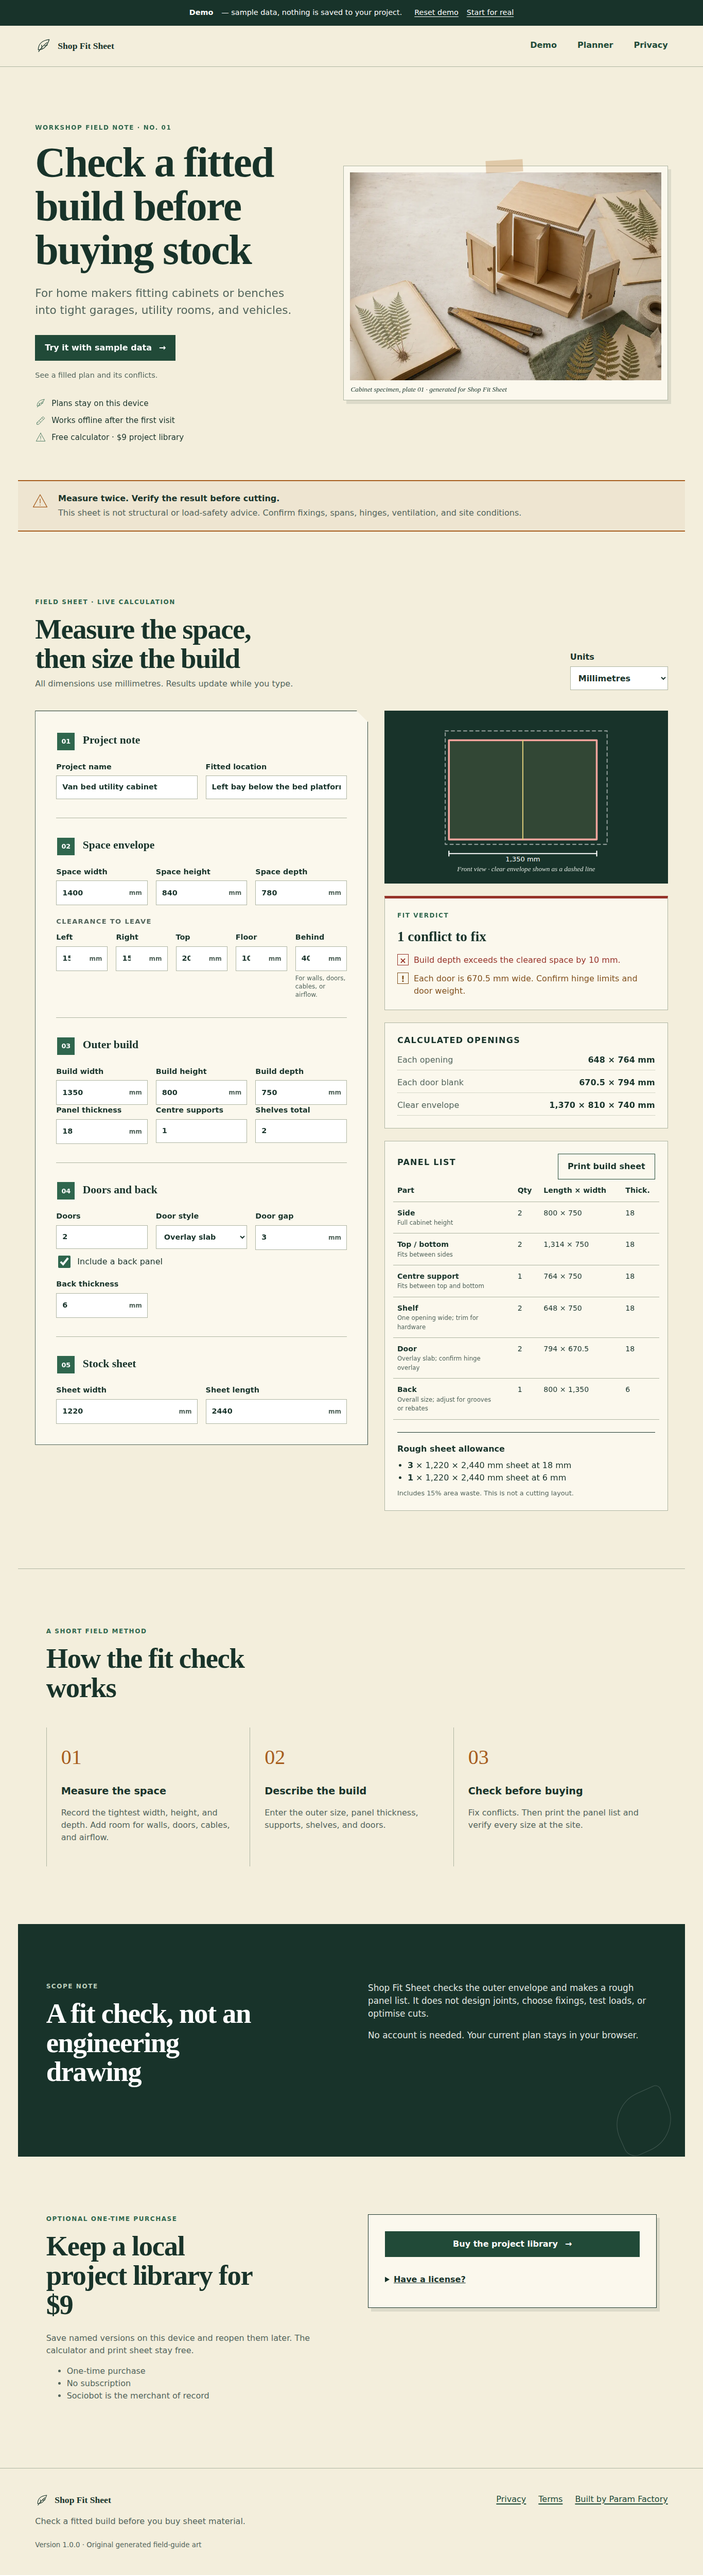
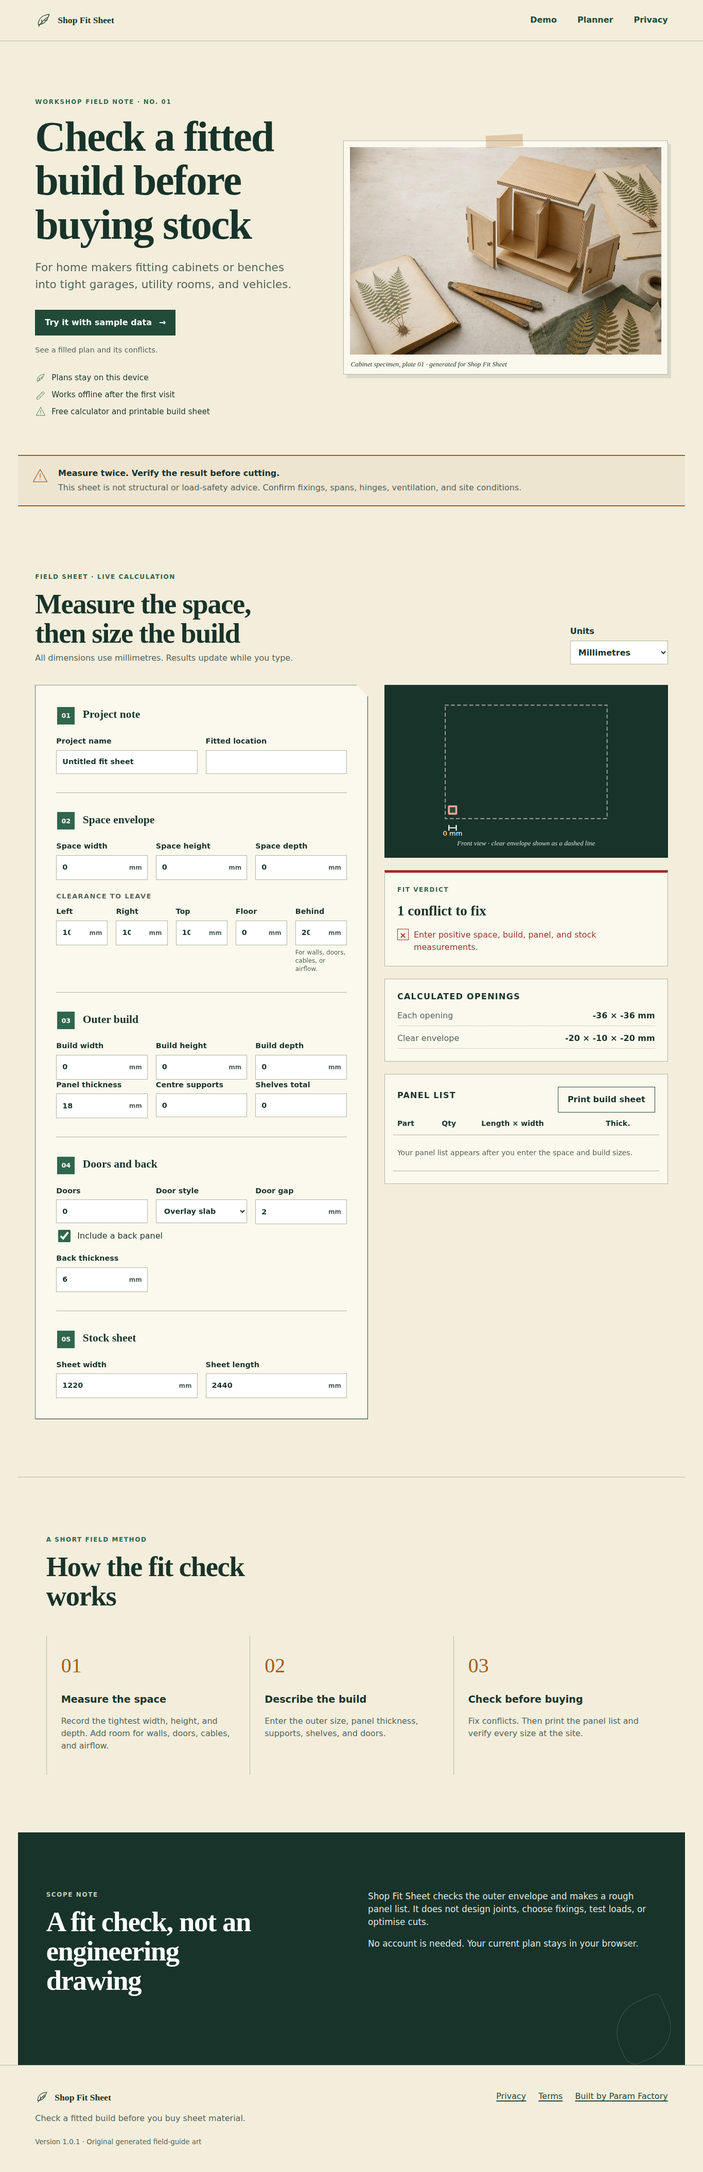
docs: record repaired release verification

diff --git a/.factory/evidence/index.html b/.factory/evidence/index.html
@@ -11,16 +11,16 @@
     <meta property="og:title" content="Shop Fit Sheet — Check a fitted build" />
     <meta property="og:description" content="Check clearances and make a printable panel list before buying sheet material." />
     <meta property="og:url" content="https://shop-fit-sheet.sociobot.in/" />
-    <meta property="og:image" content="https://shop-fit-sheet.sociobot.in/assets/social.webp" />
+    <meta property="og:image" content="https://shop-fit-sheet.sociobot.in/assets/social.7a30391a.webp" />
     <meta name="twitter:card" content="summary_large_image" />
     <meta name="twitter:title" content="Shop Fit Sheet — Check a fitted build" />
     <meta name="twitter:description" content="Check clearances and make a printable panel list before buying sheet material." />
-    <meta name="twitter:image" content="https://shop-fit-sheet.sociobot.in/assets/social.webp" />
+    <meta name="twitter:image" content="https://shop-fit-sheet.sociobot.in/assets/social.7a30391a.webp" />
     <link rel="icon" href="/favicon.svg" type="image/svg+xml" />
     <link rel="apple-touch-icon" href="/apple-touch-icon.png" />
     <link rel="manifest" href="/manifest.webmanifest" />
-    <script type="module" crossorigin src="/assets/app.js"></script>
-    <link rel="stylesheet" crossorigin href="/assets/app.css">
+    <script type="module" crossorigin src="/assets/app-0Uf5uBHn.js"></script>
+    <link rel="stylesheet" crossorigin href="/assets/app-B6kgXICn.css">
   </head>
   <body>
     <div id="app"></div>

diff --git a/.factory/handoff.md b/.factory/handoff.md
@@ -1,56 +1,47 @@
 # Shop Fit Sheet handoff
 
-## Independent verification status — FAIL (2026-08-28)
+## Repair outcome
 
-Candidate `3e286e808e1f853567a79b97b18bc2ae745610b0` was independently verified against <https://shop-fit-sheet.sociobot.in>. Local claims, the 24-test suite, production build, live calculator flows, offline reload, privacy request log, responsive keyboard/axe checks, and artifact hashes passed. **Release fails** because the public $9 project-library checkout URL returns HTTP 404 from the Sociobot billing API. The promise is visible and actionable but cannot be purchased.
+Repaired and deployed the independent-verification failure from candidate `3e286e808e1f853567a79b97b18bc2ae745610b0`.
 
-Additional P2 findings: static JS/CSS are un-hashed and sent with only `max-age=30`, contrary to the immutable static-cache policy; unknown URLs render the styled 404 content with HTTP 200. See [.factory/verification.md](verification.md) for exact evidence, rate-limit observation, and remediation.
+- Removed the unavailable $9 project-library offer, checkout link, license flow, paid claim, and related copy. The Sociobot checkout still returns `404 {"error":"enabled factory product","status":404}`; the product no longer promises or exposes that broken path.
+- Preserved the researched calculator, demo sandbox, local browser storage, printable build sheet, offline operation, fit calculations, safety warning, routes, and visual system.
+- Fingerprinted the compiled JS/CSS and static image asset names. Generated service worker `shop-fit-sheet-v5` precaches the exact hashed build assets.
+- Added Azure Static Web Apps cache rules: `/assets/*` is `public, max-age=31536000, immutable`; HTML and `/sw.js` are `public, max-age=0, must-revalidate`.
+- Replaced the catch-all SPA fallback with explicit known-route rewrites and a 404 response override. Unknown URLs now render the designed in-app recovery screen with an actual HTTP 404.
+- Added regressions for the suppressed unregistered checkout and the fingerprint/cache/404 deployment contract.
 
-## What was built
+## Commits and deployment
 
-- A local-first fit calculator for cabinets, benches, and storage builds.
-- Constraint checks for the outer width, height, depth, clearances, openings, supports, door blanks, and stock-sheet fit.
-- A calculated panel list, rough sheet allowance, and printable build sheet.
-- Millimetre and inch conversion, live updates, explicit invalid-input messages, empty states, and an offline state.
-- A one-click `/demo` with a realistic van cabinet and isolated `demo:shop-fit-sheet:project:v1` storage.
-- An optional $9 one-time project library with Sociobot checkout, license restore, cached first paint, and daily background verification.
-- `/privacy`, `/terms`, and styled 404 routes with History API navigation and focus management.
-- A versioned service worker, install manifest, metadata, social preview, sitemap, robots file, and Azure Static Web Apps headers.
-- An original botanical field-guide hero. The source, prompt, model, and production WebP files are documented in `.factory/design.md`.
+- Repair commit: `5abb570 fix: remove unavailable checkout and harden static delivery`
+- Pushed to `origin/main`.
+- Production deployment: Azure Static Web Apps deployment `c506951d-d443-4c13-96ce-fc6f5fcdf51e` on 2026-08-29.
+- Live URL: <https://shop-fit-sheet.sociobot.in>
 
 ## Run and verify
 
 ```sh
-npm install
+npm ci
 npm test
 npm run build
 ```
 
-The production build command is exactly `npm run build`. Output lands in `dist/`, with `dist/index.html` at its root.
+`npm run build` runs TypeScript checking and emits the static app to `dist/` with `dist/index.html` at its root. There is no separate lint script or package-consumer surface for this static web product.
 
-Final local verification on 2026-08-28:
+Verification completed on 2026-08-29:
 
-- Playwright: 24 tests passed across desktop Chromium and a 390 × 844 mobile viewport.
-- Every entry in `.factory/claims.json` passed in the `/demo` sandbox.
-- Axe integration: no serious or critical findings on `/`, `/demo`, `/privacy`, `/terms`, or the 404 route.
-- Keyboard check: skip link, forms, demo actions, print action, and navigation are reachable.
-- Console and links: no console or page errors; every internal link returned a successful response.
-- Offline: the service worker reloaded `/demo` with the browser network disabled.
-- Production assets: 9.30 KB JS gzip, 4.35 KB CSS gzip, 30 KB mobile hero, and 83 KB desktop hero.
-- Lighthouse 13.4.1 mobile simulation on `/demo`: Performance 100, Accessibility 100, Best Practices 100, SEO 100.
-- Lighthouse metrics: LCP 1.4 s, CLS 0, total blocking time 80 ms, speed index 1.0 s, total transfer 100 KiB.
+- Fresh `npm ci`: 23 packages, 0 audit vulnerabilities.
+- `npm test`: 24 Playwright tests passed across desktop Chromium and 390 × 844 mobile. This includes every `.factory/claims.json` command, keyboard skip-link behavior, axe serious/critical checks, responsive layout, privacy traffic, offline reload, and the new release regressions.
+- `npm run build`: passed. Output: JS 21.62 kB / 8.05 kB gzip; CSS 15.35 kB / 4.35 kB gzip; total deployed transfer measured 99 KiB.
+- Live `verify-url.sh`: HTTP 200, no console/page errors, title/lang/one `h1`/`main`/image alt checks passed. Updated screenshots and report are in `.factory/evidence/`.
+- Live browser checks on `/`, `/demo`, `/privacy`, `/terms`, and `/does-not-exist` at desktop and 390 px: no horizontal overflow; no serious/critical axe findings; route titles correct; skip link receives first Tab focus; all normal demo-flow requests remained same-origin.
+- Live offline check: after first `/demo` load, service-worker-controlled offline reload showed “1 conflict to fix”.
+- Live response-policy checks: `/does-not-exist` returned HTTP 404 and the styled recovery page; hashed app JS returned HTTP 200 with `Cache-Control: public, max-age=31536000, immutable`; `/sw.js` returned HTTP 200 with `Cache-Control: public, max-age=0, must-revalidate`.
+- Lighthouse mobile on live `/demo`: Performance 100, Accessibility 100, Best Practices 100, SEO 100; LCP 1.2 s, CLS 0, total blocking time 90 ms, transfer 99 KiB.
 
-Screenshots and the browser smoke-test record are in `.factory/evidence/`.
+## Known limits and next step
 
-## Known limits
-
-- The sheet allowance uses panel area plus 15%. It is not a cutting or nesting layout.
-- Output does not cover joints, fixing selection, loads, sag engineering, or site certification.
-- The paid checkout and verification path needs the factory’s product registration before release. No payment-provider secret is stored here.
-- Browser storage is device-local. It does not sync between browsers or devices.
-
-## Release steps
-
-1. Register `shop-fit-sheet` with the Sociobot billing engine at the stated $9 one-time price.
-2. Deploy `dist/` through the factory static-web pipeline.
-3. Check the production checkout return URL and license verification once after registration.
+- Sheet allowance remains panel area plus 15%; it is not a cut-layout or nesting optimiser.
+- Output does not design joints, select fixings, certify loads, or replace site measurement and safety checks.
+- Browser storage is local to one device/browser.
+- The researched brief names a one-time monetization path, but no factory billing registration tool or credential was present in this work order. The offer is deliberately absent until the factory registers and enables `shop-fit-sheet`; only then should a paid feature be restored with a safe end-to-end checkout, return-token, and live verification test.
